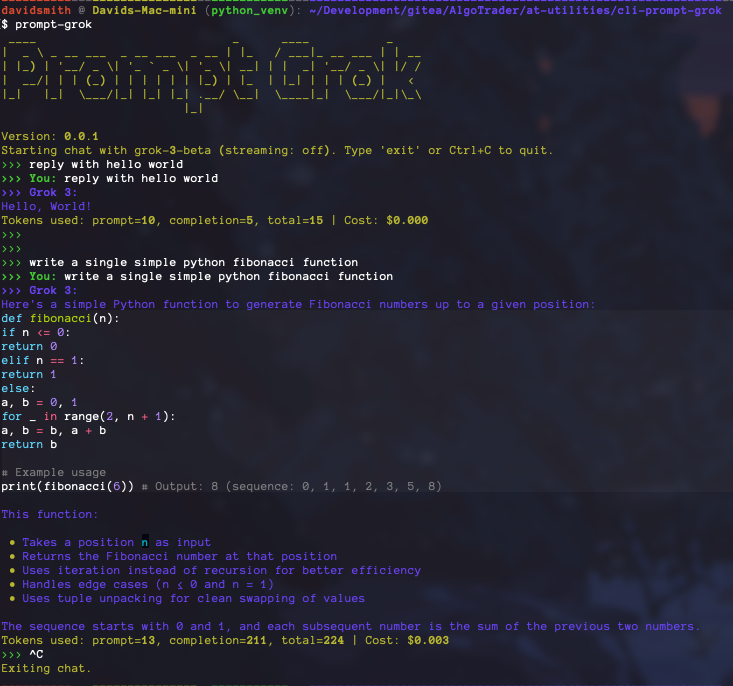
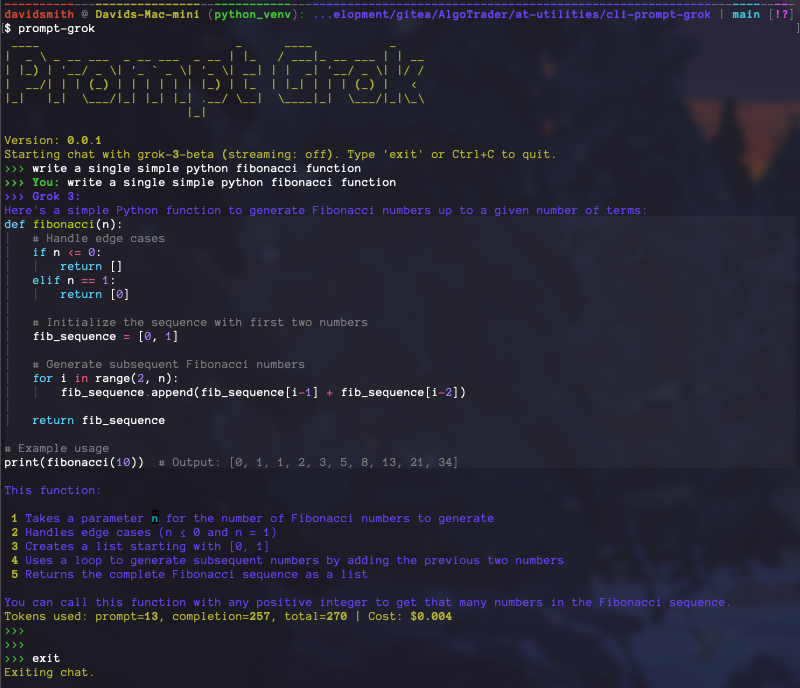
bug fix; indentation was dropped from code snippets in response

diff --git a/grok_cli/cli_prompt_grok.py b/grok_cli/cli_prompt_grok.py
@@ -41,13 +41,31 @@ def debug_log(message):
         console.print(f"[yellow]DEBUG: {message}[/yellow]")
 
 def clean_response(response):
-    """Clean response by normalizing whitespace and preserving markdown lists."""
+    """Clean response by normalizing whitespace while preserving markdown code blocks and lists."""
     if not response:
         return response
-    response = re.sub(r'\n\s*\n+', '\n\n', response.strip())
-    lines = response.split('\n')
-    cleaned_lines = [re.sub(r'\s+', ' ', line).strip() if not line.strip().startswith(('1.', '2.', '3.', '4.', '•')) else line.strip() for line in lines]
-    return '\n'.join(cleaned_lines).strip()
+
+    # Split response into parts: code blocks and non-code blocks
+    parts = re.split(r'(```.*?```)', response, flags=re.DOTALL)
+    cleaned_parts = []
+
+    for part in parts:
+        if part.startswith("```") and part.endswith("```"):
+            # Preserve code block as-is, including indentation
+            cleaned_parts.append(part)
+        else:
+            # Normalize whitespace for non-code parts, preserving markdown lists
+            part = re.sub(r'\n\s*\n+', '\n\n', part.strip())
+            lines = part.split('\n')
+            cleaned_lines = [
+                re.sub(r'\s+', ' ', line).strip() if not line.strip().startswith(('1.', '2.', '3.', '4.', '•')) else line.strip()
+                for line in lines
+            ]
+            cleaned_part = '\n'.join(cleaned_lines).strip()
+            if cleaned_part:
+                cleaned_parts.append(cleaned_part)
+
+    return '\n'.join(cleaned_parts).strip()
 
 def calculate_cost(model, prompt_tokens, completion_tokens):
     """Calculate API cost based on model and token usage."""
@@ -290,7 +308,7 @@ def prompt_grok(stream, model):
                 if reasoning_content:
                     console.print(f"[cyan bold]>>> Reasoning:[/cyan bold]")
                     console.print(Markdown(reasoning_content, style="cyan"))
-                # Print the main response in blue (appears as purple in your terminal)
+                # Print the main response in blue
                 console.print(f"[blue bold]>>> Grok 3:[/blue bold]")
                 parts = re.split(r'(```.*?```)', response, flags=re.DOTALL)
                 for part in parts:
@@ -300,7 +318,8 @@ def prompt_grok(stream, model):
                         lang = lines[0].strip() if lines and lines[0].strip() else "text"
                         code = "\n".join(lines[1:] if lines[0].strip() else lines).strip()
                         if code:
-                            console.print(Syntax(code, lang, theme="monokai"))
+                            # Preserve indentation in Syntax rendering
+                            console.print(Syntax(code, lang, theme="monokai", indent_guides=True))
                             console.print()  # Add blank line after code snippet
                     else:
                         part = clean_response(part)
